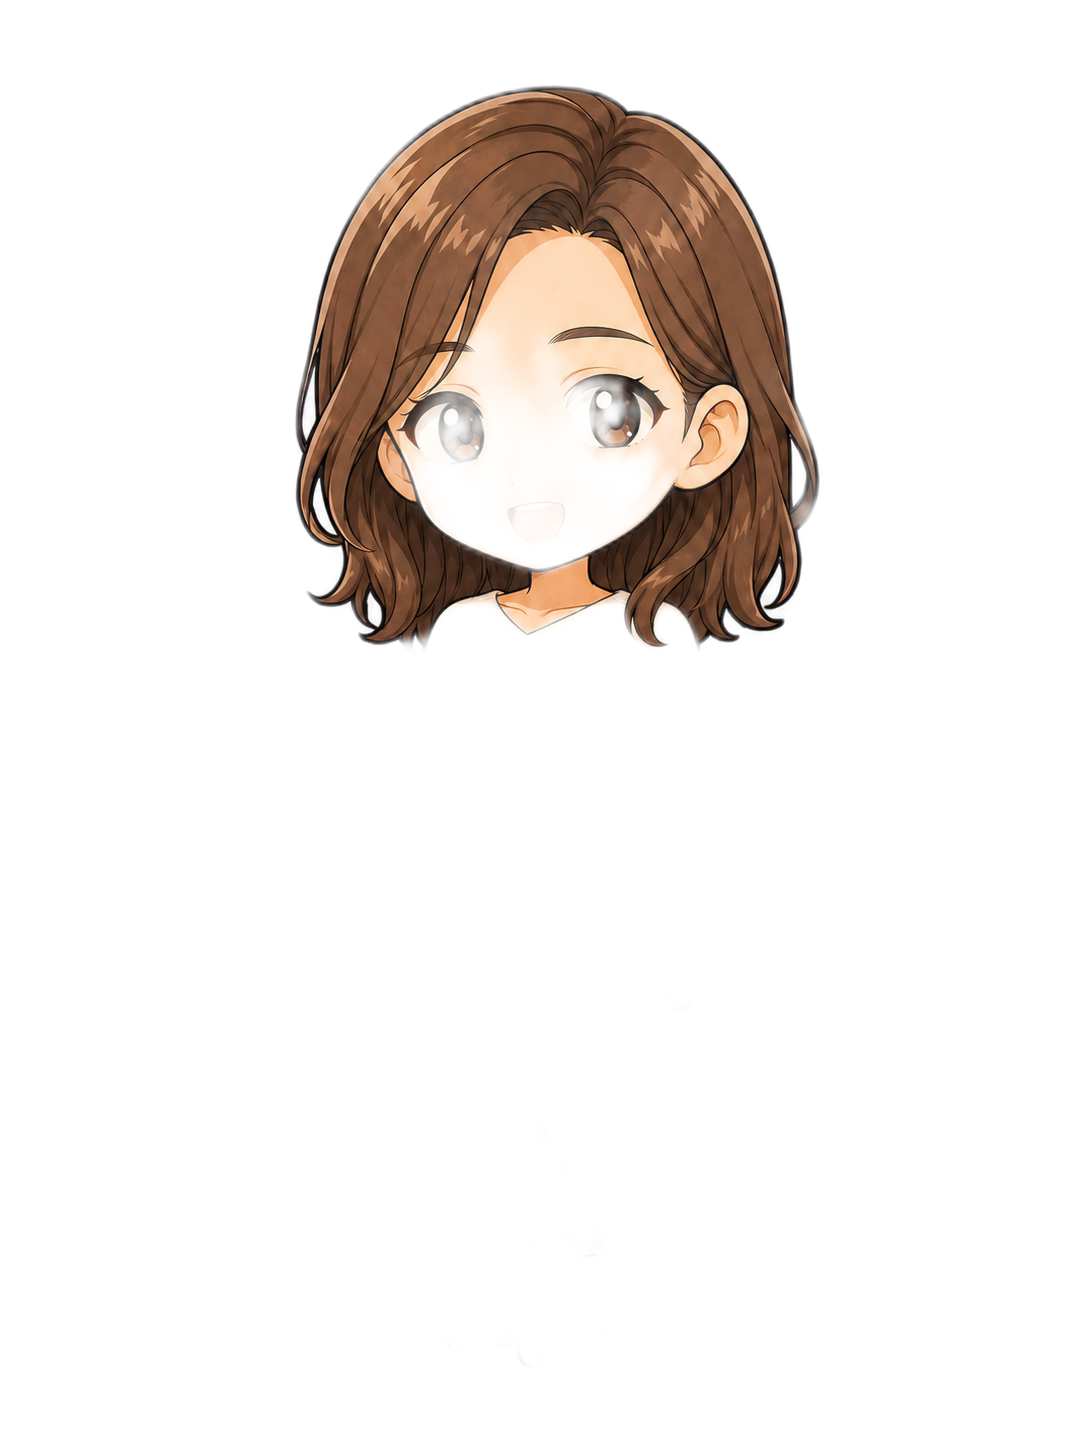
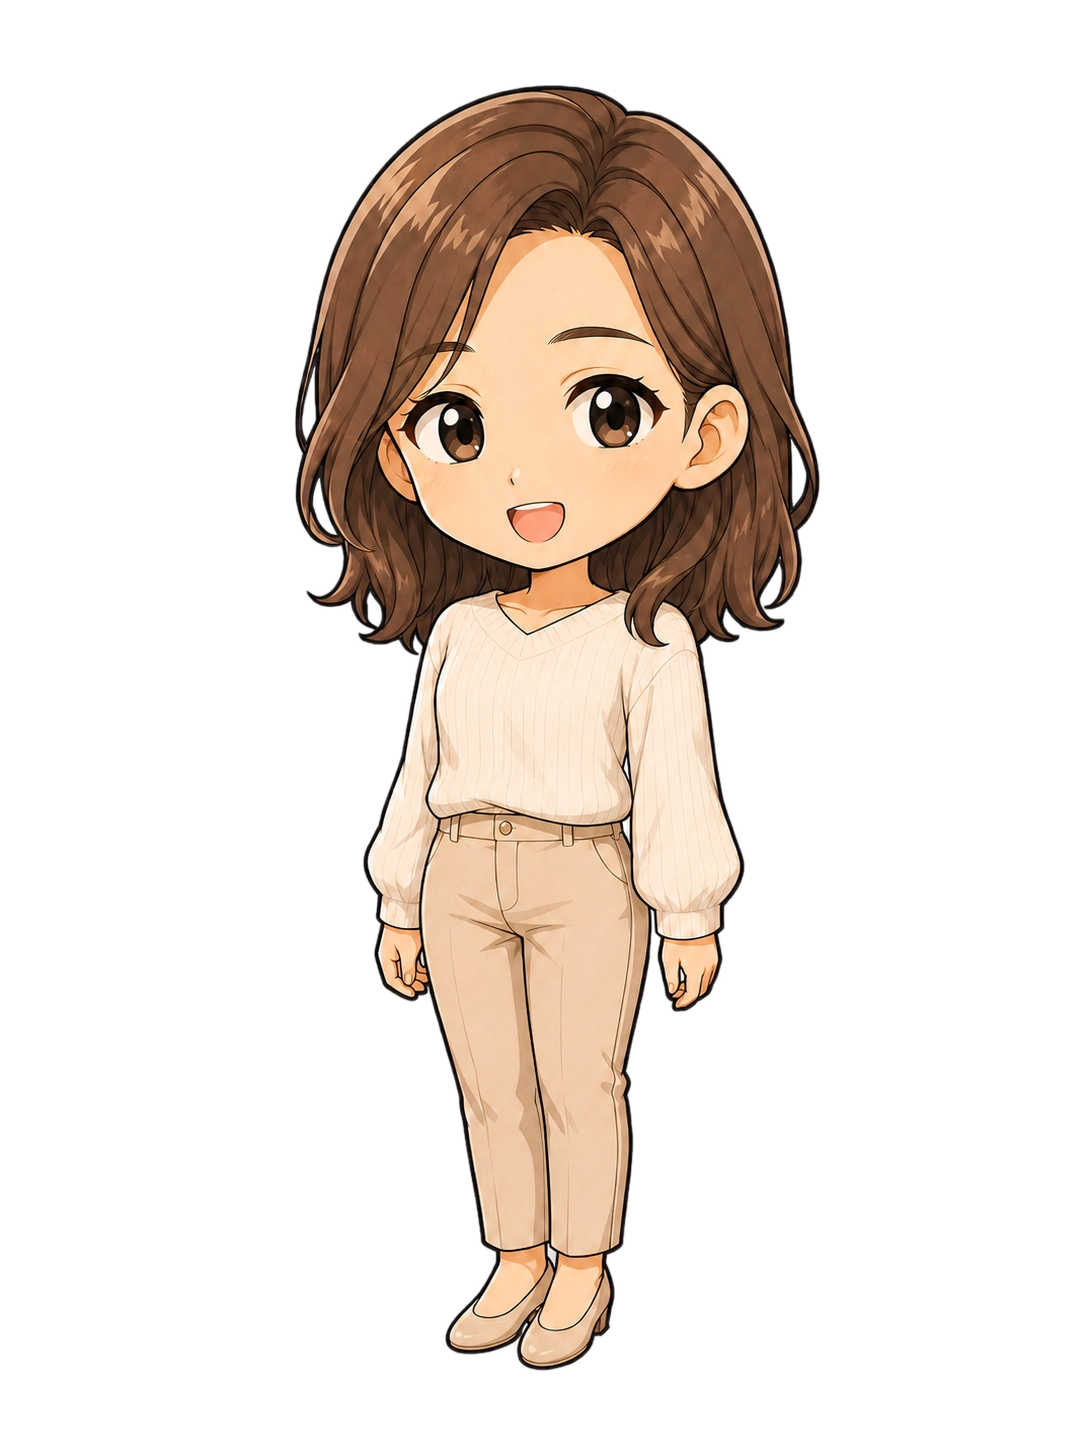
fix: 対談リールの体消失バグ修正・話者名タグ削除
あかりのmouth_open.pngがbg除去失敗で体部分の透過が壊れていたのを
彩度+明度ベースのクロマキーで再生成。あわせて画面上の話者名タグ
(いせ先生/あかり)をYouTube版・Instagramリール版の両方から削除。

diff --git a/remotion/src/TaidanReel.tsx b/remotion/src/TaidanReel.tsx
@@ -69,26 +69,6 @@ const QuoteCard: React.FC<{ text: string; opacity: number; pop: number }> = ({ t
   );
 };
 
-const NameTag: React.FC<{ speaker: "q" | "s"; opacity: number }> = ({ speaker, opacity }) => (
-  <div
-    style={{
-      position: "absolute",
-      top: 130,
-      left: speaker === "q" ? 90 : 630,
-      opacity,
-      background: speaker === "q" ? "#a86e1a" : NAVY,
-      color: "#fff",
-      fontFamily: MARU,
-      fontWeight: 900,
-      fontSize: 30,
-      padding: "8px 26px",
-      borderRadius: 12,
-    }}
-  >
-    {speaker === "q" ? "あかり" : "いせ先生"}
-  </div>
-);
-
 const CaptionBar: React.FC<{ text: string; opacity: number }> = ({ text, opacity }) => (
   <div
     style={{
@@ -140,7 +120,6 @@ const BeatView: React.FC<{ beat: ReelBeat; durationInFrames: number }> = ({ beat
     <AbsoluteFill style={{ opacity, backgroundColor: PAPER }}>
       <Audio src={staticFile(beat.audio)} />
 
-      <NameTag speaker={beat.speaker} opacity={Math.min(1, pop * 1.3)} />
       <QuoteCard text={beat.text} opacity={Math.min(1, pop * 1.3)} pop={pop} />
 
       {/* 質問役(あかり・左)。話していない時は少し暗く小さく */}

diff --git a/scripts/daily-pipeline/hf_build.js b/scripts/daily-pipeline/hf_build.js
@@ -143,15 +143,6 @@ function buildHtml(timedScenes, total, opts = {}) {
           `<span style="font-size:${fs2}px">${esc(b.sub)}</span></div>`
       );
       anims.push({ sel: `#${sc.sid}-c${j} span`, from: { opacity: 0 }, to: { opacity: 1 }, dur: 0.3, ease: 'power2.out', at: b.start + 0.05, scene: sc });
-      // 対談モードは字幕バーの上に話者名タグを出す
-      if (taidan) {
-        const isS = b.speaker === 's';
-        const nm = isS ? (opts.sLabel || '先生') : (opts.qLabel || '質問');
-        captionParts.push(
-          `<div class="cap-name ${isS ? 'nm-s' : 'nm-q'} clip" id="${sc.sid}-n${j}" data-start="${b.absStart}" data-duration="${b.dur}" data-track-index="8">${esc(nm)}</div>`
-        );
-        anims.push({ sel: `#${sc.sid}-n${j}`, from: { x: -16, opacity: 0 }, to: { x: 0, opacity: 1 }, dur: 0.25, ease: 'power2.out', at: b.start + 0.02, scene: sc });
-      }
     });
 
     // chibiキャラ(余白のあるレイアウトだけ・useChibi=trueのアカウントだけ)。対談モードでは常駐キャラを使うのでスキップ
